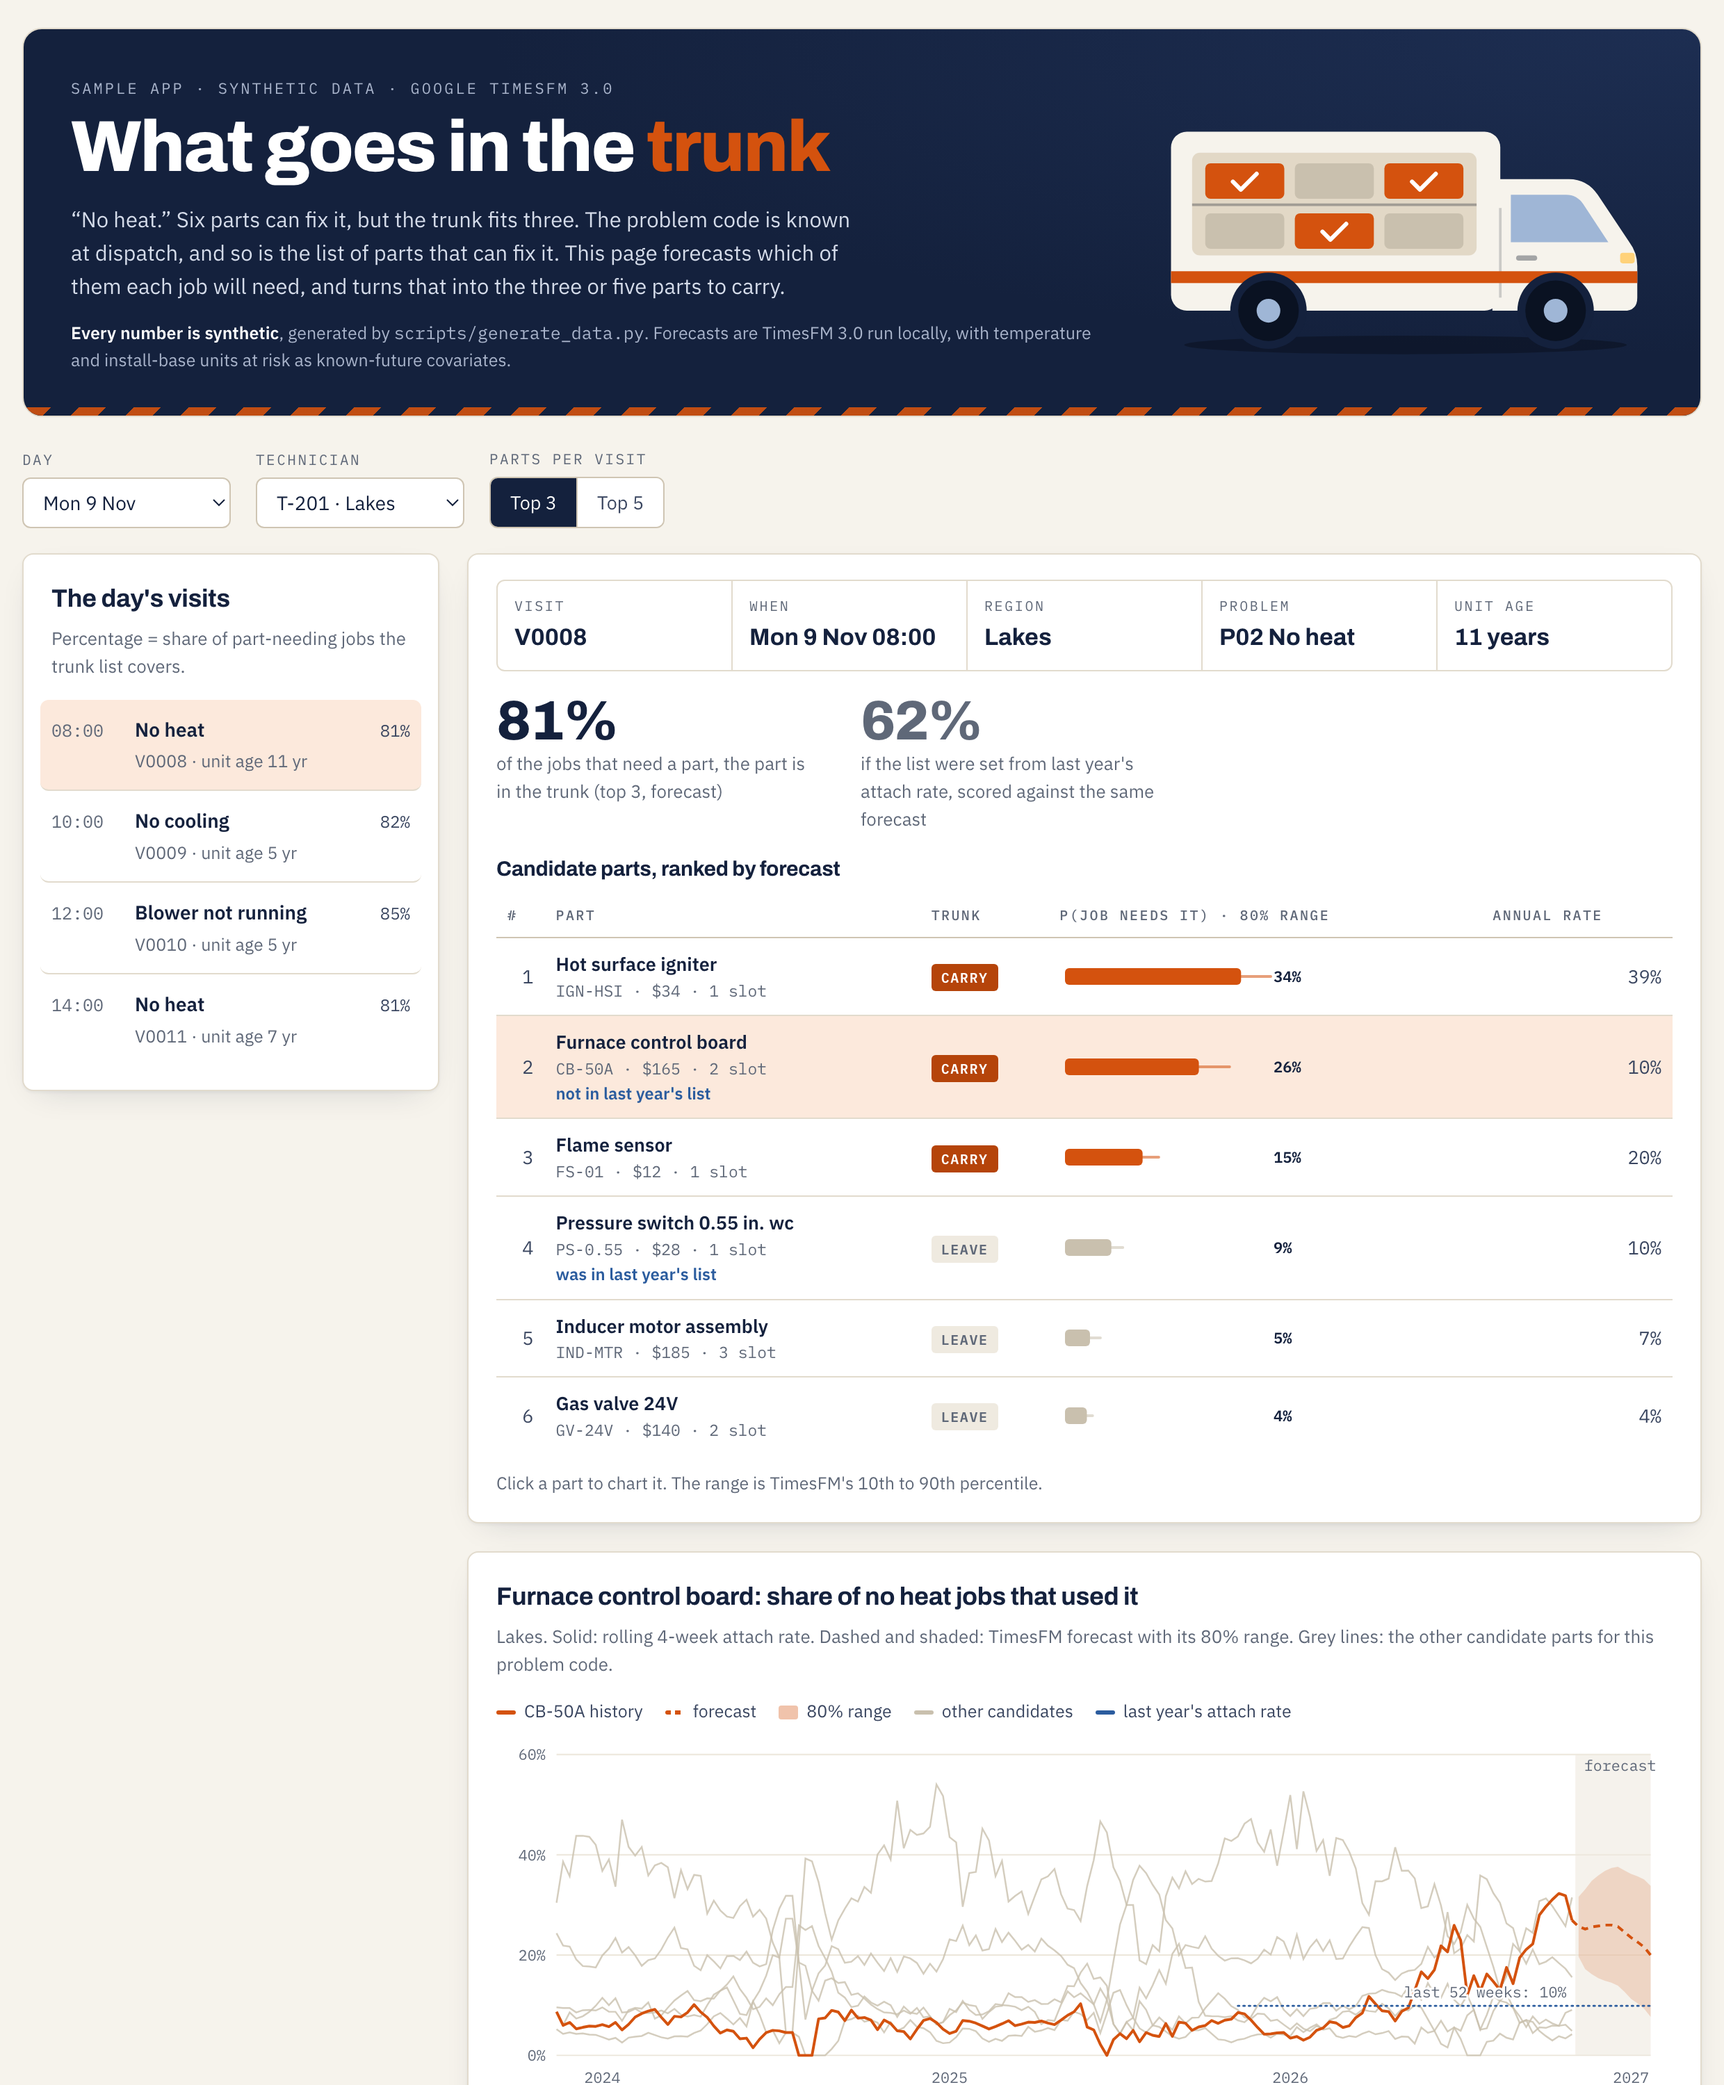
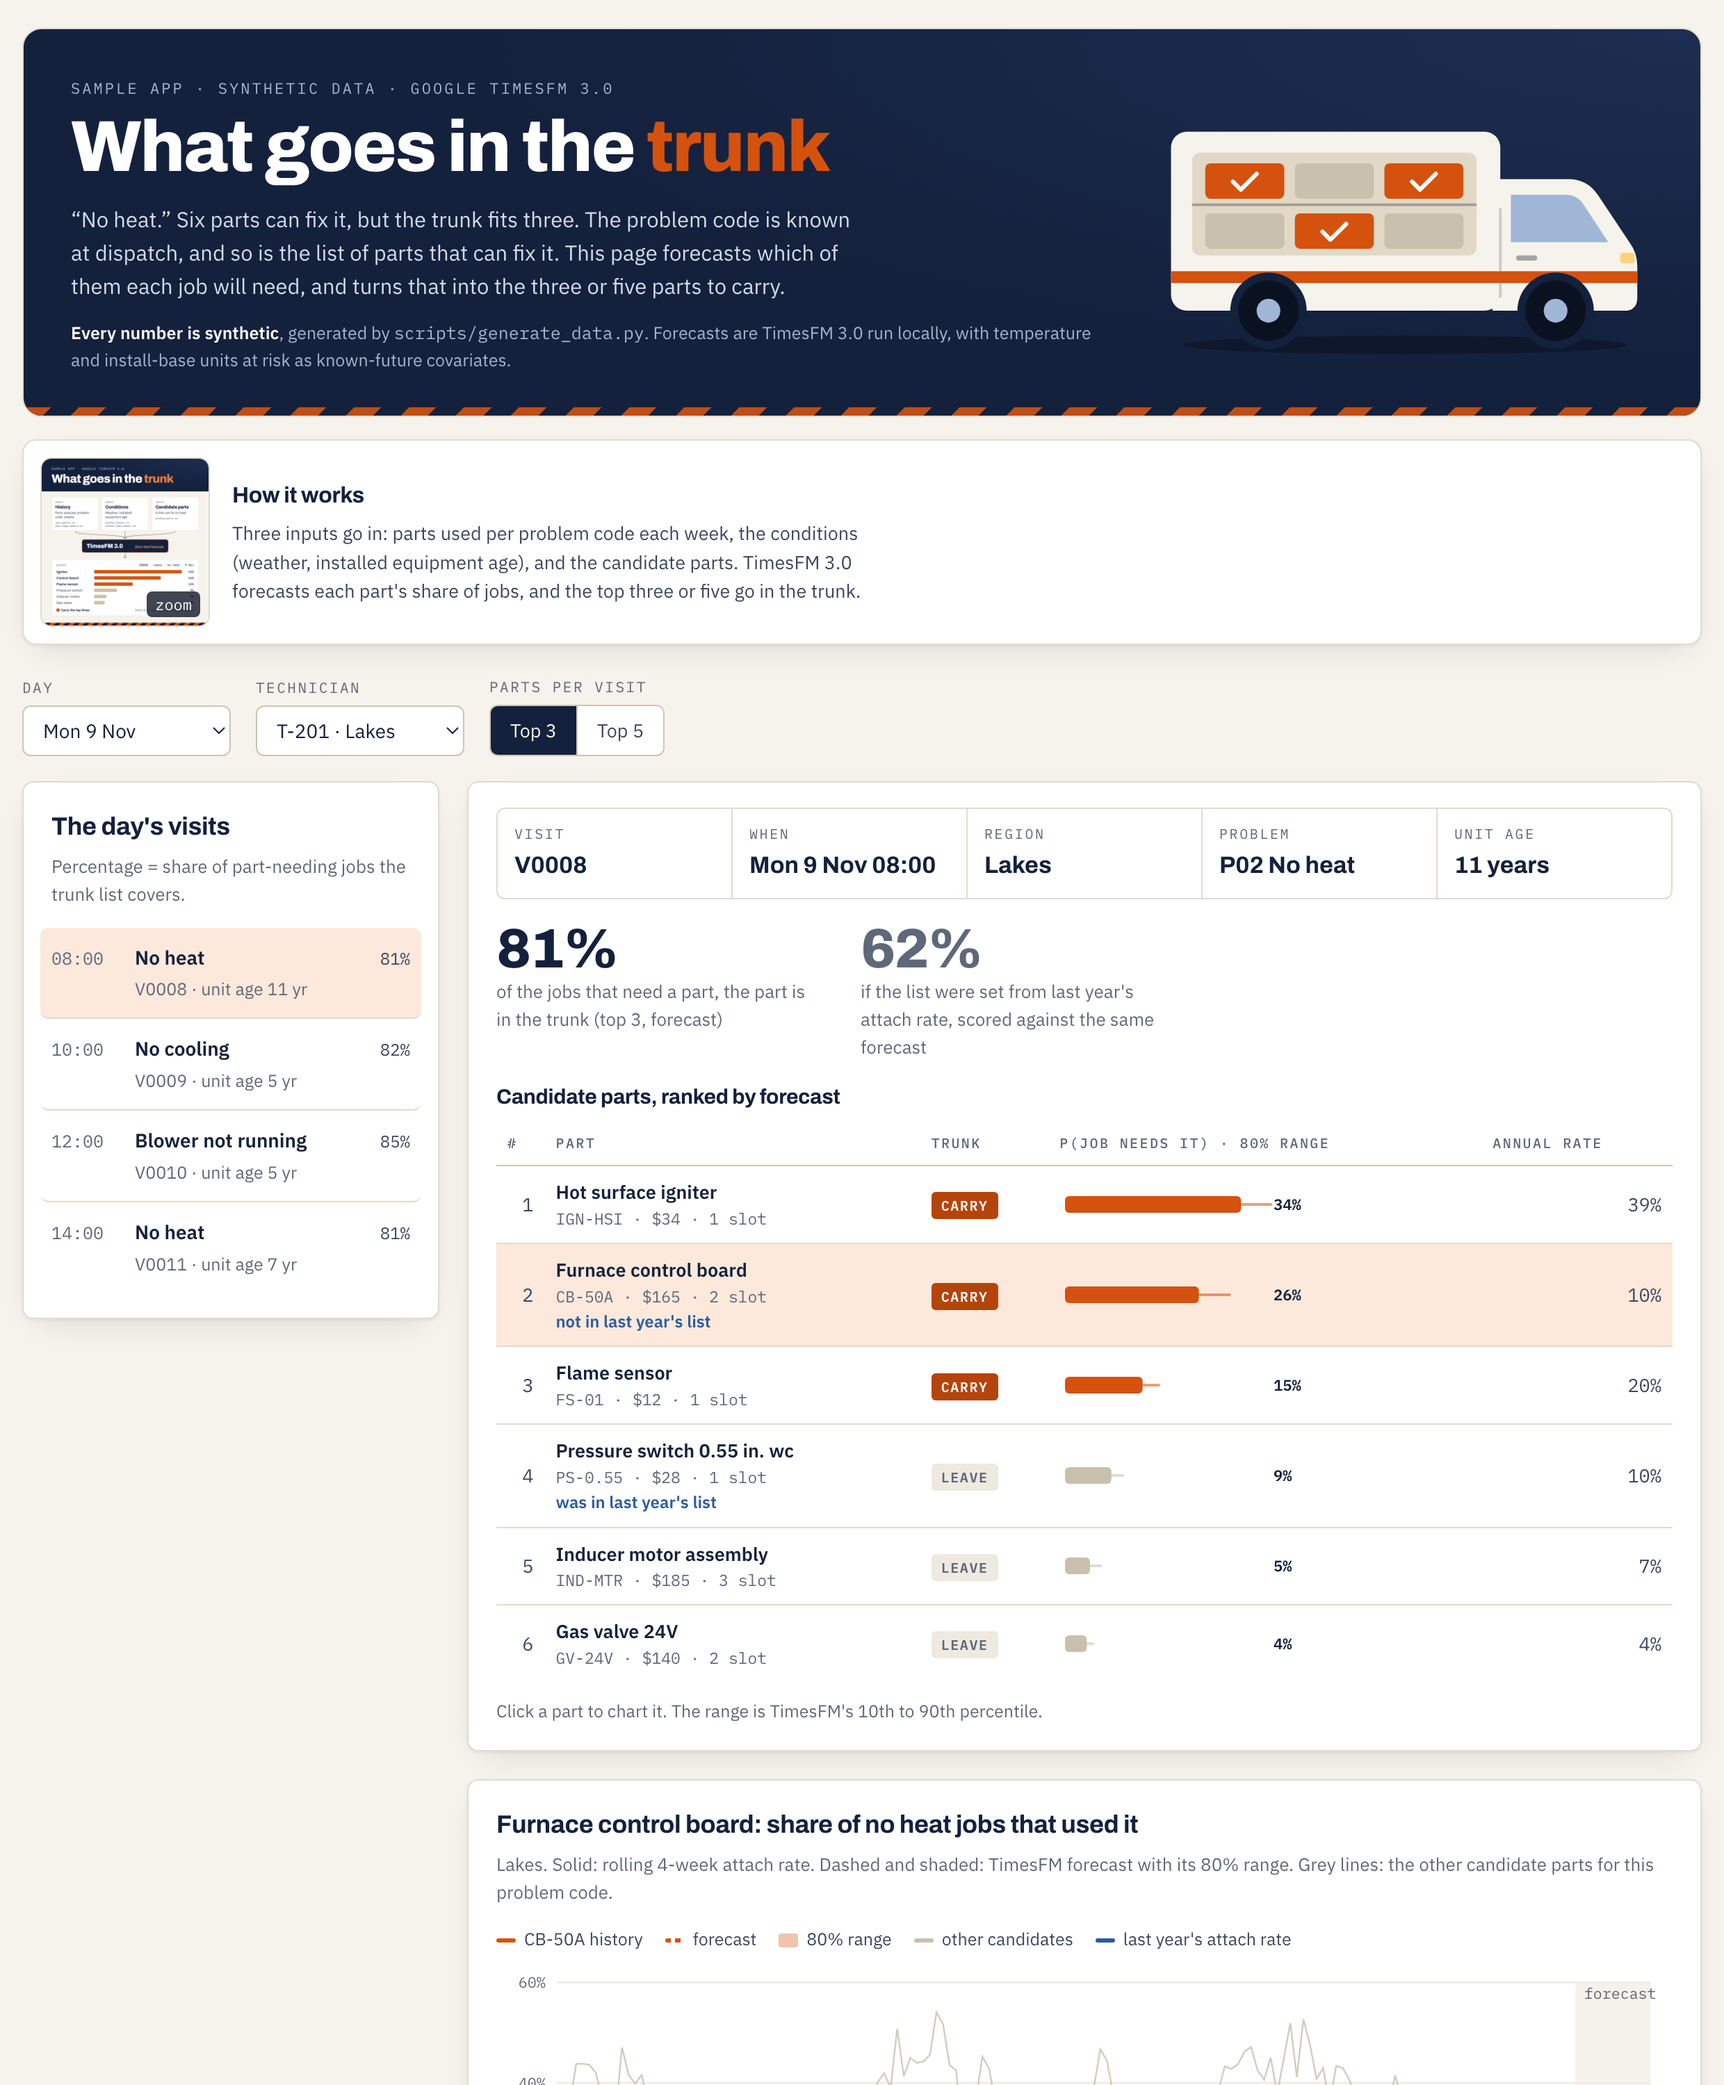
How it works: zoomable thumbnail of the post image on the sample app

diff --git a/index.html b/index.html
@@ -80,6 +80,22 @@ header .note b{color:var(--band-ink)}
 .van{width:100%;height:auto;display:block}
 @media(max-width:820px){header{grid-template-columns:1fr;padding:24px 20px 26px;gap:12px}
   .van{max-width:300px;order:-1;margin:0 auto -4px}}
+.how{display:flex;gap:16px;align-items:center;background:var(--surface);border:1px solid var(--line);
+  border-radius:10px;padding:12px 16px 12px 12px;margin:16px 0 0;box-shadow:var(--shadow)}
+.how .thumb{padding:0;border:1px solid var(--line);background:none;cursor:zoom-in;border-radius:8px;overflow:hidden;flex:none;position:relative}
+.how .thumb img{width:120px;height:120px;display:block}
+.how .thumb span{position:absolute;right:6px;bottom:6px;background:rgba(10,17,32,.78);color:#fff;font-size:11px;
+  font-family:"IBM Plex Mono",monospace;padding:2px 6px;border-radius:4px}
+.how .thumb:focus-visible{outline:2px solid var(--pick);outline-offset:2px}
+.how h2{font-size:16px}
+.how p{font-size:13.5px;color:var(--ink-2);margin-top:4px;max-width:62ch}
+dialog.zoom{padding:0;border:0;background:transparent;max-width:min(94vw,94vh);width:min(94vw,94vh);overflow:visible}
+dialog.zoom::backdrop{background:rgba(8,12,24,.82)}
+dialog.zoom img{width:100%;height:auto;display:block;border-radius:12px;cursor:zoom-out}
+dialog.zoom .x{position:absolute;top:-14px;right:-14px;width:34px;height:34px;border-radius:50%;border:0;
+  background:#fff;color:#14213D;font-size:20px;line-height:34px;cursor:pointer;box-shadow:0 2px 8px rgba(0,0,0,.4)}
+dialog.zoom .full{display:block;text-align:center;margin-top:10px;color:#fff;font-size:14px;text-decoration:underline}
+@media(max-width:560px){.how{align-items:flex-start}.how .thumb img{width:88px;height:88px}dialog.zoom .x{top:6px;right:6px}}
 .note{margin-top:12px;font-size:12.5px;color:var(--muted)}
 .note b{color:var(--ink-2)}
 
@@ -190,6 +206,23 @@ footer a{color:var(--pick)}
     <circle cx="306" cy="170" r="23" fill="var(--van-wheel)"/><circle cx="306" cy="170" r="9" fill="var(--van-glass)"/>
   </svg>
 </header>
+
+<section class="how" aria-labelledby="howTitle">
+  <button type="button" class="thumb" id="howOpen" aria-label="Enlarge the how-it-works diagram">
+    <img src="docs/post-image.png" alt="How it works: history, conditions and candidate parts go into TimesFM 3.0, which ranks the parts for visit V0008" width="120" height="120">
+    <span>zoom</span>
+  </button>
+  <div>
+    <h2 id="howTitle">How it works</h2>
+    <p>Three inputs go in: parts used per problem code each week, the conditions (weather, installed equipment age),
+    and the candidate parts. TimesFM&nbsp;3.0 forecasts each part's share of jobs, and the top three or five go in the trunk.</p>
+  </div>
+</section>
+<dialog class="zoom" id="howZoom" aria-label="How it works, enlarged">
+  <img src="docs/post-image.png" alt="How it works: history, conditions and candidate parts go into TimesFM 3.0, which ranks the parts for visit V0008: igniter 34%, control board 26%, flame sensor 15%, pressure switch 9%, inducer motor 5%, gas valve 4%. The top three are carried.">
+  <button type="button" class="x" aria-label="Close">&times;</button>
+  <a class="full" href="docs/post-image.png" target="_blank" rel="noopener">Open full size &#8599;</a>
+</dialog>
 
 <div class="controls">
   <div class="ctl"><label for="date">Day</label><select id="date"></select></div>
@@ -535,6 +568,11 @@ function renderBacktest() {
   $("calib").innerHTML = `TimesFM's 80% range contained the actual 4-week attach rate <b>${pct(+c.share)}</b> of the time (${c.inside} of ${c.total} part-weeks). Rows in bold: the methods differ by five points or more.`;
 }
 
+(() => {
+  const d = document.getElementById("howZoom");
+  document.getElementById("howOpen").addEventListener("click", () => d.showModal());
+  d.addEventListener("click", () => d.close());
+})();
 init().catch(e => {
   document.querySelector(".layout").insertAdjacentHTML("beforebegin",
     `<div class="err"><b>Could not load data/.</b> Serve the folder over HTTP rather than opening the file directly:<br><span class="mono">python3 -m http.server 8000</span> then open <span class="mono">http://localhost:8000</span>.<br><span class="mono">${esc(e.message)}</span></div>`);
